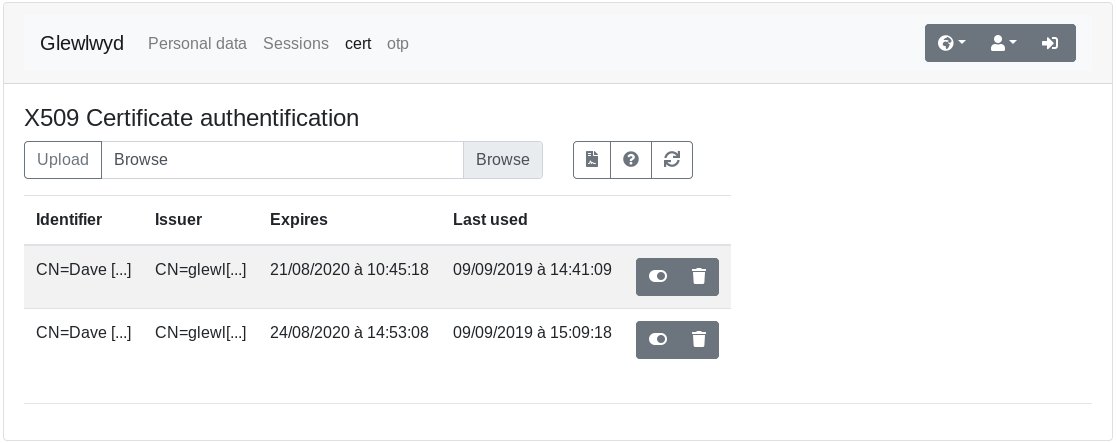
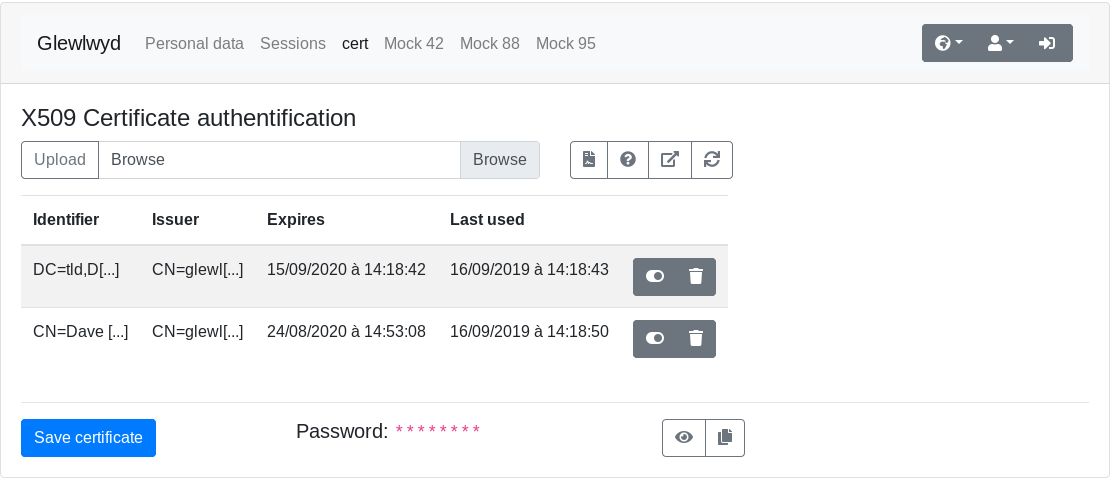
Update user doc
Explain how to use certificate request

diff --git a/docs/USER.md b/docs/USER.md
@@ -102,6 +102,10 @@ Also, if you're currently browsing using your certificate, you can click on the 
 
 If you already have registered at least one certificate and want to test the authentication with the current certificate you're using while browsinig, you can click on the `Test current certificate` button. If the authentication is successful, the certificate used to authenticate will be highlighted in the list.
 
+#### Request a certificate to the server
+
+If this option is enabled, you can then request a valid certificate for your authentication. After clicking on the button, a PKCS#12 certificate will be available for download. You must save this file, then import it in your browser certificate list using the provided password.
+
 ## Login to Glewlwyd
 
 ![login-new-user](screenshots/login-new-user.png)
